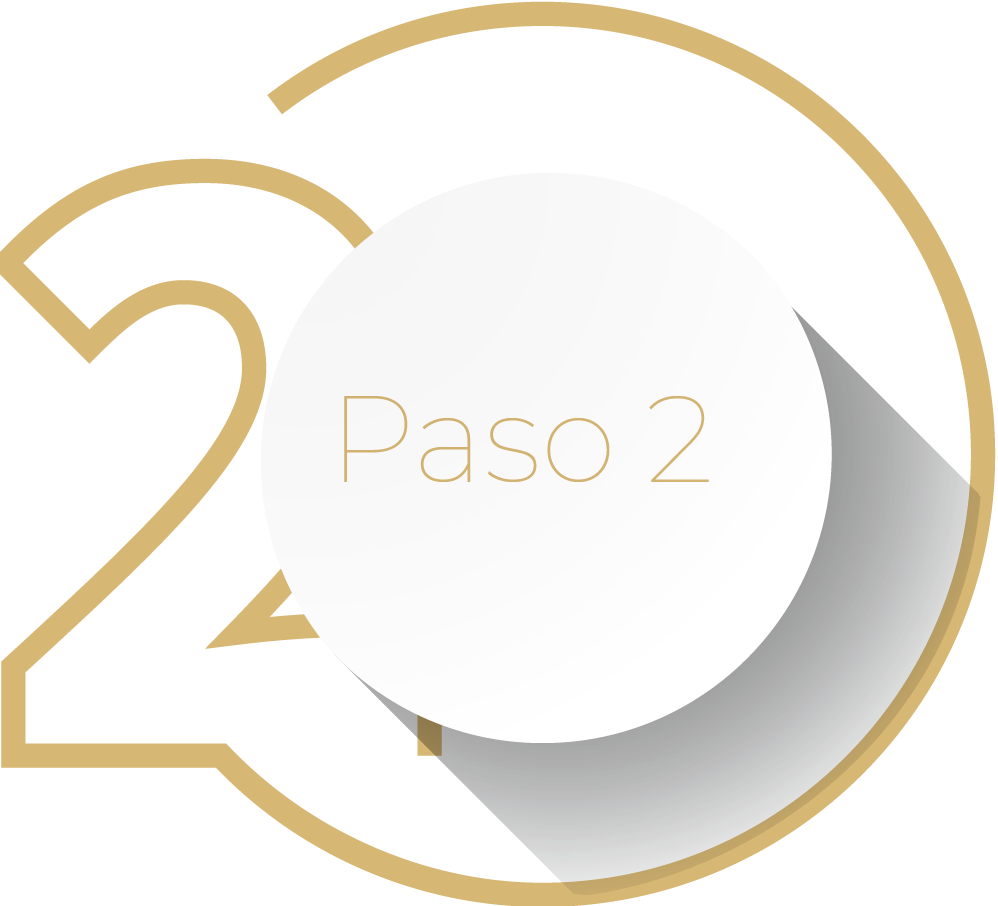
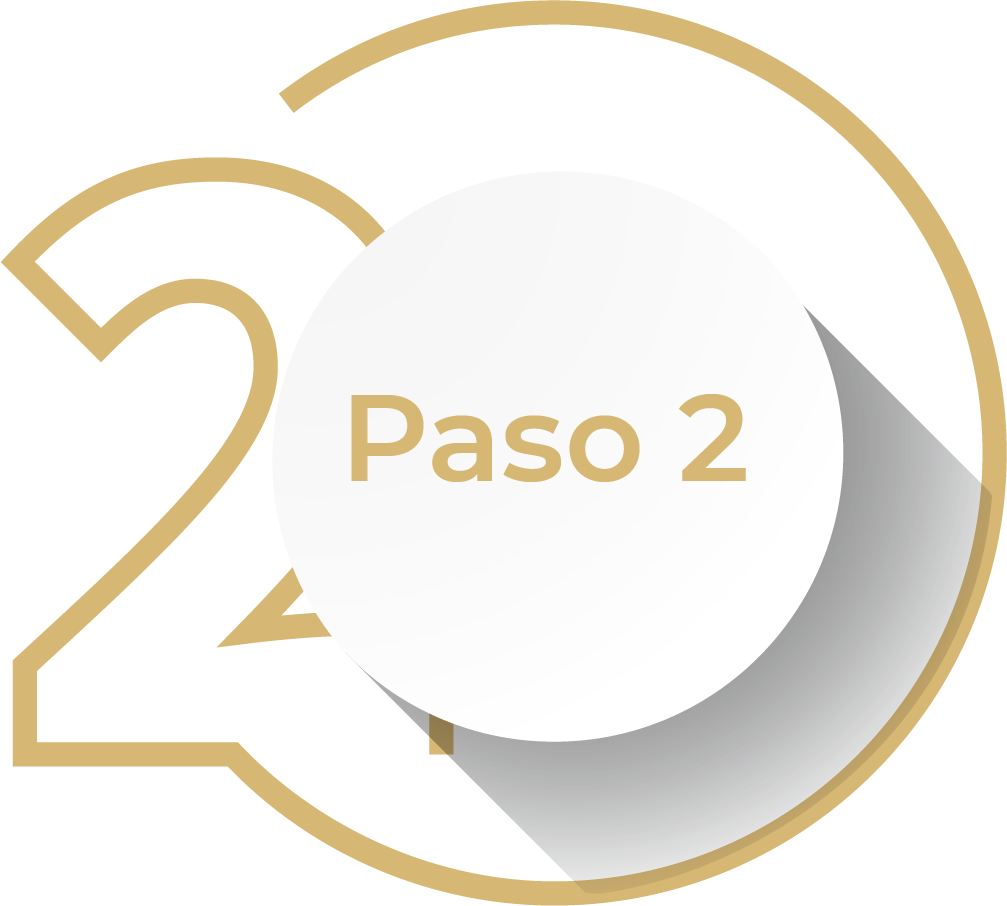
Add files via upload

diff --git a/tarotdelapurgacionbonos/css/style.css b/tarotdelapurgacionbonos/css/style.css
@@ -32,6 +32,10 @@ p{
 .movil{
     display: none;
 }
+.container-fluid{
+    padding-left: 100px;
+    padding-right: 100px;
+}
 @media (max-width:991px){
     h1{
         font-size: 35px !important;
@@ -50,6 +54,10 @@ p{
 
 }
 @media (max-width:767px) {
+    .container-fluid{
+        padding-left: 30px;
+        padding-right: 30px;
+    }
     h1{
         font-size: 18px !important;
     }
@@ -77,13 +85,13 @@ p{
     text-align: center;
 }
 #header .tittle-bg{
-    padding: 20px 0 5px 0;
+    padding: 30px 0 25px 0;
     background-color: #ffeb99;
 }
 #header .tittle-bg h1{
     margin: 0;
-    font-size: 50px;
-    font-weight: lighter;
+    font-size: 70px;
+    font-weight: normal;
 }
 #header .sub-tittle{
     padding: 20px 0 10px 0;
@@ -91,7 +99,7 @@ p{
 #header .sub-tittle h4{
     font-weight: lighter;
     letter-spacing: 5px;
-    font-size: 30px;
+    font-size: 40px;
 }
 @media (max-width:767px) {
     #header .tittle-bg{
@@ -117,7 +125,6 @@ p{
 .pasos {
     background: #fff;
     padding: 35px 50px;
-    max-width: 930px;
     display: block;
     margin: auto;
 }
@@ -126,7 +133,6 @@ p{
     color: #ffeb99;
     padding: 20px 0;
     text-align: center;
-    max-width: 930px;
     display: block;
     margin: auto;
 }
@@ -238,7 +244,7 @@ p{
 }
 #pasos hr{
     border: 7px #ffeb99 solid;
-    margin: 0 0 15px 0;
+    margin: 0 0 10px 0;
 }
 #pasos .tittle-bg-p{
     background: #534034;
@@ -292,8 +298,8 @@ p{
         margin-top: 10px;
     }
     #pasos hr{
-        border: 4px #ffeb99 solid;
-        margin: 0 0 15px 0;
+        border: 3px #ffeb99 solid;
+        margin: 0 0 8px 0;
     }
 }
 @media (max-width:767px) {
@@ -303,10 +309,10 @@ p{
     .pasos {
         background: #fff;
         padding: 15px 15px;
-        max-width: 300px;
+        
     }
     #pasos .tittle-bg{
-        max-width: 300px;
+        
     }
     .paso-2 .ext img{
         max-width: 70px;
@@ -331,8 +337,8 @@ p{
         margin-top: 10px;
     }
     #pasos hr{
-        border: 4px #ffeb99 solid;
-        margin: 0 0 15px 0;
+        border: 3px #ffeb99 solid;
+        margin: 0 0 8px 0;
     }
 }
 
@@ -342,12 +348,13 @@ p{
     border-radius: 0px;
     padding: 30px 50px 10px 50px;
     box-shadow: 0 10px 10px 0 rgba(0, 0, 0, 0.3);
-    max-width: 930px;
     display: block;
     margin: auto;
     margin-bottom: 50px;
 }
-
+#presentacion .presentacion-bg-aling{
+    align-items: center;
+}
 #presentacion .content-text p{
     text-align: center;
 }
@@ -361,6 +368,8 @@ p{
     max-width: 230px;
     width: 100%;
     margin-top: 0px;
+    display: block;
+    margin: auto;
 }
 @media (max-width:991px){
     #presentacion .content-text p{
@@ -412,7 +421,6 @@ p{
     font-size: 40px;
 }
 #card-amor .bono{
-    max-width: 950px;
     width: 100%;
     display: block;
     margin: auto;
@@ -463,7 +471,7 @@ p{
 
 /* realizaconsulta */
 #realizaconsulta{
-    background: linear-gradient(to top, #f7ec66, #ffeb99);
+    background: linear-gradient(to top, #f7ec66, #fcf1c7);
     padding: 0 0 100px 0;
 }
 #realizaconsulta .tittle-bg{
@@ -588,7 +596,6 @@ p{
 }
 #call-to-action .form{
     padding: 100px 0 170px 0;
-    max-width: 780px;
     width: 100%;
     display: block;
     margin: auto;

diff --git a/tarotdelapurgacionbonos/index.html b/tarotdelapurgacionbonos/index.html
@@ -38,7 +38,7 @@
     </header>
 
     <section id="pasos">
-        <div class="container">
+        <div class="container-fluid">
             <div class="content">
                 <div class="item">
 
@@ -138,10 +138,10 @@
 
     <section id="presentacion">
         
-        <div class="container">
+        <div class="container-fluid">
             <div class="content">
                 <div class="presentacion-bg">
-                    <div class="row">
+                    <div class="row presentacion-bg-aling">
                         <div class="col-4">
                             <div class="img-presentation-tarotist">
                                 <div class="bg-img-presentation">
@@ -165,7 +165,7 @@
                 </div>
 
                 <div class="presentacion-bg">
-                    <div class="row">
+                    <div class="row presentacion-bg-aling">
                         
                         <div class="col-8">
                             <!-- <div class="tittle">
@@ -201,7 +201,7 @@
             <h2>BONOS DE TAROT EN OFERTA</h2>
             <h6>*Oferta por tiempo limitado</h6>
         </div>
-        <div class="container">
+        <div class="container-fluid">
             <div class="content row">
                 <div class="bono">
                     <img src="img/bonos/bono-1.png" alt="">
